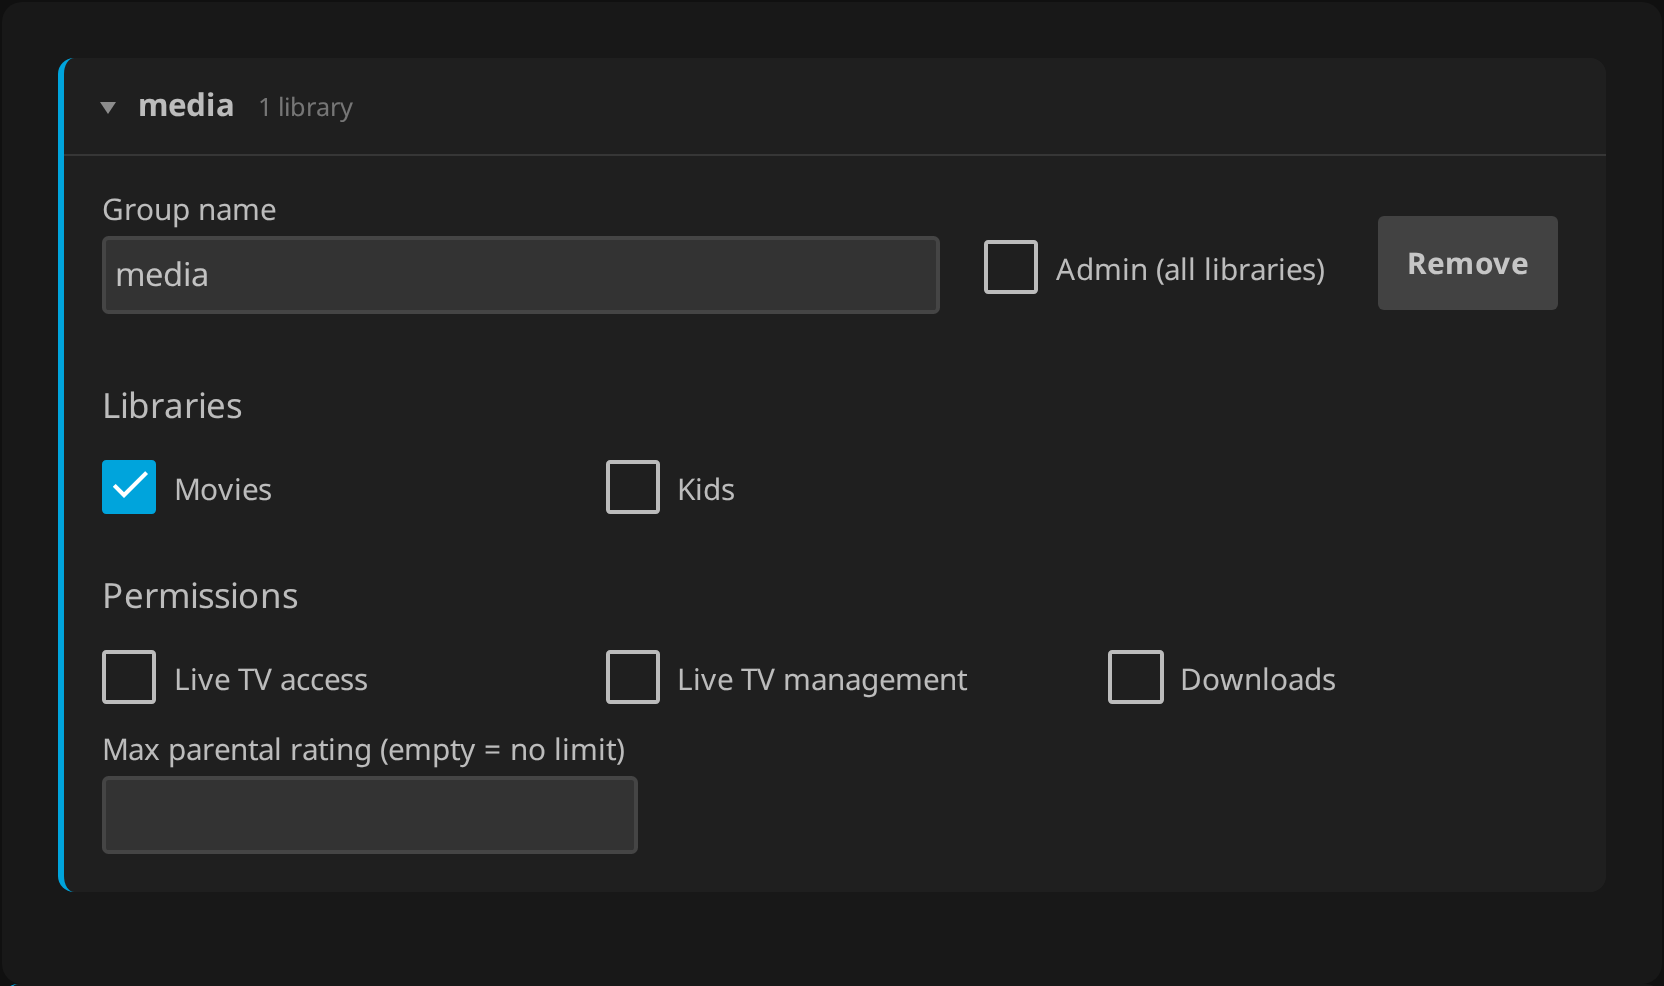
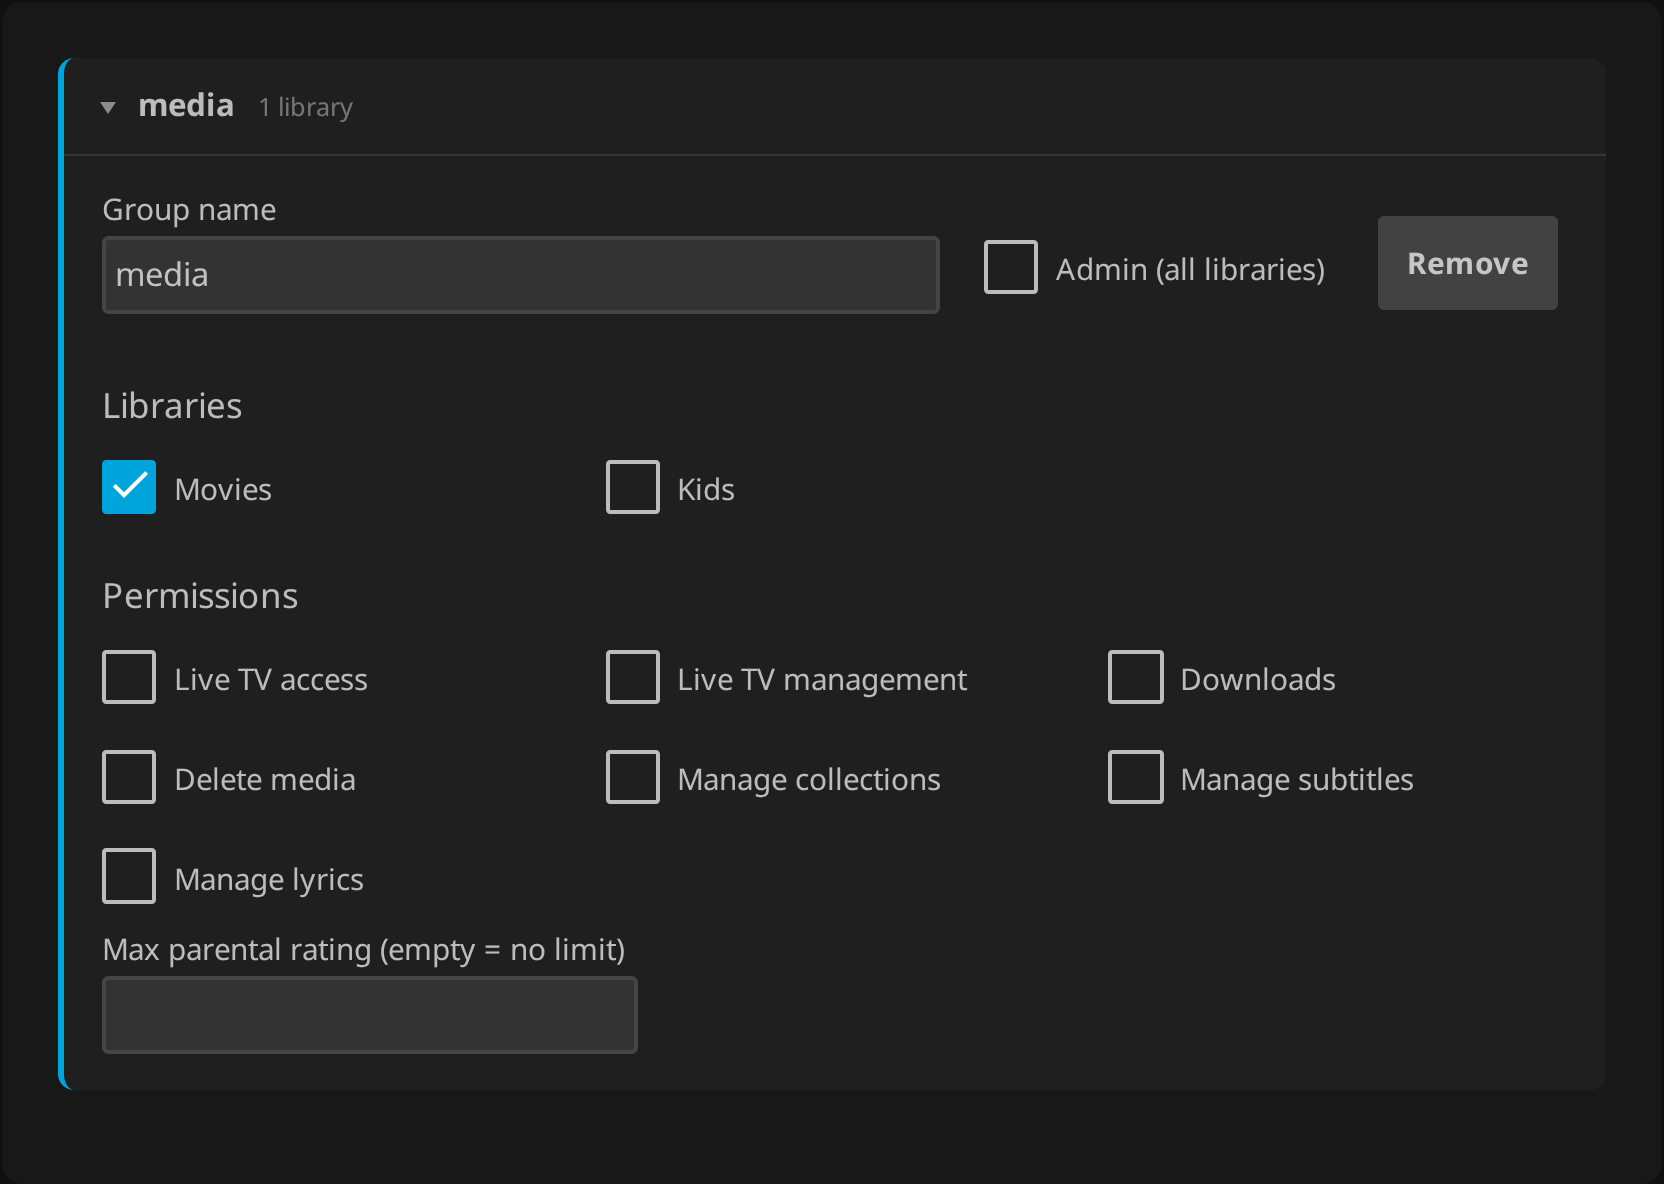
Refresh what went stale, guard it, and fix the dead button (#120)
* Refresh what went stale, and stop it going stale quietly

Two chores of the same kind: things the README and the documentation assert that
nothing was checking.

The screenshots of the configuration page were taken before group mappings
learned to grant deletion, collections, subtitles and lyrics, so the picture
showed three permissions where the page now has seven. Regenerated from the
suite that takes them.

And the counts. The README states four of them — unit tests, end-to-end tests,
real-provider logins, and the sum in the comparison table — and all four drifted
this week, twice: the table said 354 and 85 while the comparison below it still
read 341 and 84. scripts/check-readme-counts.sh asks the suites instead of
trusting the prose, and the test workflow runs it where the projects are already
built. It earned its place immediately, catching that the manual stack had
pushed the case count to 119 — and that counting it as a test was wrong in the
first place, since it is an environment held open for a person, so it is
excluded.

* Point the login button at the server, when the server says where it is

#118: an app that packages its own copy of jellyfin-web and runs it from a local
origin — the Samsung one does — still receives the branding, because branding is
an API call. So the button appears, and its form submits to a root-relative path
that now means the television rather than the server. A visible button that goes
nowhere.
[…]

diff --git a/Jellyfin.Plugin.Sso/Web/LoginBranding.cs b/Jellyfin.Plugin.Sso/Web/LoginBranding.cs
@@ -60,8 +60,60 @@ public sealed class LoginBranding
         => string.Equals(current ?? string.Empty, next, StringComparison.Ordinal);
 
     /// <summary>
-    /// The sub-path Jellyfin is served under, if any. Branding holds plain HTML, so the
-    /// links have to carry the prefix themselves.
+    /// What the buttons' links are prefixed with.
+    ///
+    /// The sub-path Jellyfin is served under, if any — branding holds plain HTML, so the
+    /// links have to carry the prefix themselves. That is enough for every client that
+    /// loads the web client from the server, which is most of them.
+    ///
+    /// It is not enough for a client that ships its own copy of the web client and runs
+    /// it from a local origin, as the Samsung app does: the branding still arrives,
+    /// because branding is an API call, so the button appears and then submits to a path
+    /// on the television. When the operator has set a published server address — the
+    /// setting that exists so Jellyfin can tell clients where it is — that address is
+    /// used instead, which those clients can follow and everyone else reaches the same
+    /// server by.
     /// </summary>
-    private string BasePath() => _configManager.GetNetworkConfiguration().BaseUrl ?? string.Empty;
+    private string BasePath()
+    {
+        var network = _configManager.GetNetworkConfiguration();
+        var basePath = network.BaseUrl ?? string.Empty;
+        var published = PublishedOrigin(network.PublishedServerUriBySubnet);
+
+        return published is null ? basePath : published + basePath;
+    }
+
+    /// <summary>
+    /// The scheme and host of the address the operator publishes, or null when none is
+    /// usable. Jellyfin keeps these as "subnet=address" entries, one per network, so the
+    /// one that answers for everybody — "all=" — is preferred and any other is taken in
+    /// order. The entries are free text somebody typed, so anything that is not an
+    /// absolute http(s) address is ignored rather than spliced into markup.
+    /// </summary>
+    internal static string? PublishedOrigin(IReadOnlyList<string>? published)
+    {
+        if (published is null)
+        {
+            return null;
+        }
+
+        var entries = published
+            .Where(entry => !string.IsNullOrWhiteSpace(entry))
+            .OrderByDescending(entry => entry.TrimStart().StartsWith("all=", StringComparison.OrdinalIgnoreCase));
+
+        foreach (var entry in entries)
+        {
+            var address = entry.Contains('=', StringComparison.Ordinal)
+                ? entry[(entry.IndexOf('=', StringComparison.Ordinal) + 1)..]
+                : entry;
+
+            if (Uri.TryCreate(address.Trim(), UriKind.Absolute, out var uri)
+                && (uri.Scheme == Uri.UriSchemeHttp || uri.Scheme == Uri.UriSchemeHttps))
+            {
+                return uri.GetLeftPart(UriPartial.Authority);
+            }
+        }
+
+        return null;
+    }
 }

diff --git a/tests/Jellyfin.Plugin.Sso.Tests/LoginBrandingTests.cs b/tests/Jellyfin.Plugin.Sso.Tests/LoginBrandingTests.cs
@@ -167,6 +167,81 @@ public sealed class LoginBrandingTests : IDisposable
         Assert.Contains("/jellyfin/sso/oidc/start/p1", _branding.LoginDisclaimer);
     }
 
+    // ─── Clients that run their own copy of the web client ───────────────────
+
+    /// <summary>
+    /// An app that packages jellyfin-web and runs it from its own origin — the Samsung
+    /// app does — still receives the branding, because branding is an API call. A
+    /// root-relative link then points at the television. When the operator publishes an
+    /// address, the button uses it, and that app can follow it.
+    /// </summary>
+    [Fact]
+    public void A_published_address_makes_the_button_absolute()
+    {
+        _network.PublishedServerUriBySubnet = ["all=https://jellyfin.example.com"];
+        Provider();
+
+        Branding().Apply();
+
+        Assert.Contains(
+            "https://jellyfin.example.com/sso/oidc/start/p1", _branding.LoginDisclaimer);
+    }
+
+    [Fact]
+    public void A_published_address_carries_the_sub_path_too()
+    {
+        _network.PublishedServerUriBySubnet = ["all=https://example.com"];
+        _network.BaseUrl = "/jellyfin";
+        Provider();
+
+        Branding().Apply();
+
+        Assert.Contains("https://example.com/jellyfin/sso/oidc/start/p1", _branding.LoginDisclaimer);
+    }
+
+    /// <summary>The entry that answers for everybody wins over one for a single network.</summary>
+    [Fact]
+    public void The_address_for_everybody_is_preferred()
+    {
+        _network.PublishedServerUriBySubnet =
+            ["192.168.1.0/24=http://10.0.0.5:8096", "all=https://jellyfin.example.com"];
+        Provider();
+
+        Branding().Apply();
+
+        Assert.Contains("https://jellyfin.example.com/sso/oidc/start/p1", _branding.LoginDisclaimer);
+    }
+
+    [Theory]
+    [InlineData("")]
+    [InlineData("   ")]
+    [InlineData("all=")]
+    [InlineData("all=not an address")]
+    [InlineData("all=file:///etc/passwd")]
+    [InlineData("all=javascript:alert(1)")]
+    public void Anything_that_is_not_an_http_address_is_ignored(string entry)
+    {
+        _network.PublishedServerUriBySubnet = [entry];
+        Provider();
+
+        Branding().Apply();
+
+        // Falls back to the root-relative form, which is what every client that loaded
+        // the page from the server needs anyway.
+        Assert.Contains("action=\"/sso/oidc/start/p1\"", _branding.LoginDisclaimer);
+    }
+
+    [Fact]
+    public void A_published_address_without_a_subnet_prefix_is_read_as_the_address()
+    {
+        _network.PublishedServerUriBySubnet = ["https://jellyfin.example.com"];
+        Provider();
+
+        Branding().Apply();
+
+        Assert.Contains("https://jellyfin.example.com/sso/oidc/start/p1", _branding.LoginDisclaimer);
+    }
+
     [Fact]
     public void Branding_Jellyfin_has_never_written_is_created_rather_than_assumed()
     {

diff --git a/Jellyfin.Plugin.Sso/Web/LoginButtonMarkup.cs b/Jellyfin.Plugin.Sso/Web/LoginButtonMarkup.cs
@@ -207,8 +207,14 @@ public static class LoginButtonMarkup
     }
 
     /// <summary>
-    /// Jellyfin can be served under a sub-path; links in the branding are plain strings,
-    /// so the base URL from the server's network configuration has to be prepended.
+    /// What every link in the branding is prefixed with. Branding holds plain HTML, so
+    /// the prefix has to be carried in the markup itself.
+    ///
+    /// Usually a sub-path — Jellyfin can be served under one — and then the links are
+    /// root-relative, which is right for every client that loaded the page from the
+    /// server. A caller that passes a whole address instead gets that address, for the
+    /// clients that did not: an app with its own copy of the web client resolves a
+    /// root-relative path against itself, where this plugin is not.
     /// </summary>
     private static string NormaliseBasePath(string? basePath)
     {
@@ -216,6 +222,12 @@ public static class LoginButtonMarkup
         if (trimmed.Length == 0)
         {
             return string.Empty;
+        }
+
+        if (Uri.TryCreate(trimmed, UriKind.Absolute, out var absolute)
+            && (absolute.Scheme == Uri.UriSchemeHttp || absolute.Scheme == Uri.UriSchemeHttps))
+        {
+            return trimmed;
         }
 
         return trimmed.StartsWith('/') ? trimmed : "/" + trimmed;

diff --git a/docs/clients.md b/docs/clients.md
@@ -19,9 +19,14 @@ The webOS app is a small wrapper that reads the server's manifest and navigates 
 `<server>/web/…`, so the page and the button come from the same place. The Samsung Tizen
 app **packages its own copy** of jellyfin-web into the installable, and runs it from a
 local origin. Branding still reaches it, because branding is an API call, so the button
-renders — and then submits to a path on the television rather than on the server, which
-goes nowhere ([issue #118](https://github.com/be-nj/jellyfin-sso/issues/118)). Samsung
-owners are on the Quick Connect route below until that is fixed.
+renders — and a root-relative link would then submit to a path on the television rather
+than on the server.
+
+So the button uses an absolute address when there is one to use: set
+**Dashboard → Networking → Published server URIs** (`all=https://your-jellyfin`), and
+the link carries that address instead. Without it the link stays root-relative, which is
+right for every client that loaded the page from the server and useless on Samsung. The
+Quick Connect route below works either way.
 
 ## Quick Connect: the code route
 
@@ -56,7 +61,7 @@ only thing that matters here: how a login can happen at all.
 | Jellyfin (official) | Android | in the app | 2.7.3, Android 16 emulator — signed in through the button on the login page |
 | Jellyfin Desktop | Windows, macOS, Linux | in the app | from its sources — it embeds the web client |
 | Jellyfin for LG (webOS) | LG TVs | in the app | from its sources — it navigates to `<server>/web/…`, so the button is the server's |
-| Jellyfin for Samsung (Tizen) | Samsung TVs | Quick Connect | from its sources — it packages jellyfin-web and runs it locally, so the button renders but submits nowhere ([#118](https://github.com/be-nj/jellyfin-sso/issues/118)) |
+| Jellyfin for Samsung (Tizen) | Samsung TVs | Quick Connect, or the button with a published server URI set | from its sources — it packages jellyfin-web and runs it locally, so a root-relative link submits nowhere; untested on a television |
 | Jellyfin Android TV | Android TV, Google TV | Quick Connect | 0.19.10, Google TV 14 emulator — signed in |
 | Findroid | Android | Quick Connect | 1.2.0, Android 16 emulator — signed in; also against a live server with a real Authentik |
 | Streamyfin | Android, iOS | Quick Connect | 0.55.2, Android 16 emulator — signed in |

diff --git a/README.md b/README.md
@@ -60,7 +60,7 @@ Against real software, not mocks. Every push runs:
 
 | | |
 |---|---|
-| **375 unit tests** | Token validation, permissions, lockout guards, markup, the served pages |
+| **385 unit tests** | Token validation, permissions, lockout guards, markup, the served pages |
 | **98 end-to-end tests** | Throwaway Jellyfin container, an OIDC provider built for the suite, real browser |
 | **Three Jellyfin versions** | The same build against 12.0, 12.1 and 12.2 |
 | **16 real-provider logins** | Authentik, Keycloak and Authelia, through their own forms — including the misconfigurations their guides warn about |
@@ -177,7 +177,7 @@ same way for each of the four, this one included.
 
 | | Since | Latest | ★ | Licence | Written by AI | Tests |
 |---|---|---|---:|---|---|---|
-| **This one** | 2026-09 | v1.12.15 · 2026-10 | 3 | MIT → GPLv3 | **107 of 131** commits | 375 + 118 |
+| **This one** | 2026-09 | v1.12.15 · 2026-10 | 3 | MIT → GPLv3 | **107 of 131** commits | 385 + 118 |
 | K0lin | 2026-06 | v5.1.1 · 2026-09 | 176 | GPL-3.0 | none from an AI | 68 |
 | Ezeqielle | 2026-05 | v1.0.10 · 2026-09 | 41 | GPL-3.0 | 33 of last 100 | 16 |
 | 9p4 | 2022-01 | v4.0.0.4 · archived | 1,453 | GPL-3.0 | none from an AI | none |

diff --git a/docs/configuration.md b/docs/configuration.md
@@ -139,6 +139,19 @@ A user in several groups gets the union: every library of every matched group, e
 permission any group grants, and the most permissive parental rating — a group without a
 limit lifts the limit.
 
+## Published server address
+
+Jellyfin's **Dashboard → Networking → Published server URIs** is not this plugin's
+setting, but it decides one thing here. The login button the plugin writes into the
+branding is a link, and branding is plain HTML with no idea where the server is. Without
+a published address the link is root-relative — correct for every client that loaded the
+web client from the server, and useless in an app that ships its own copy and runs it
+locally, as Samsung's does: the button appears and submits to the television.
+
+With `all=https://your-jellyfin` set, the button carries that address and works in those
+apps too. Use the address people actually open; it is the same value Jellyfin hands to
+clients for everything else.
+
 ## Safety
 
 Same tab as the group mappings:
